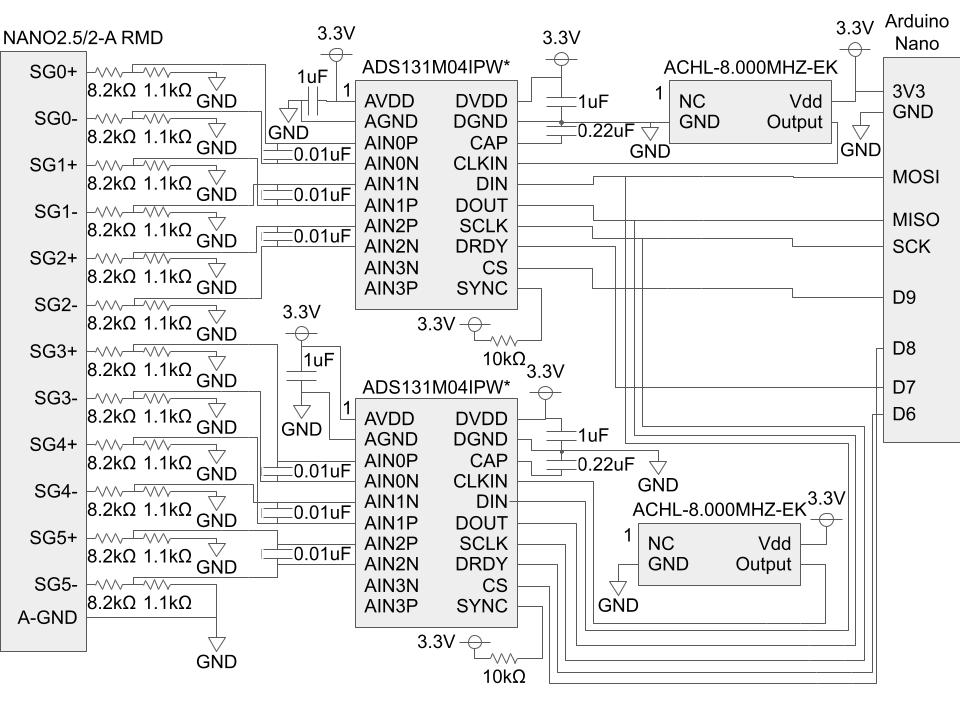
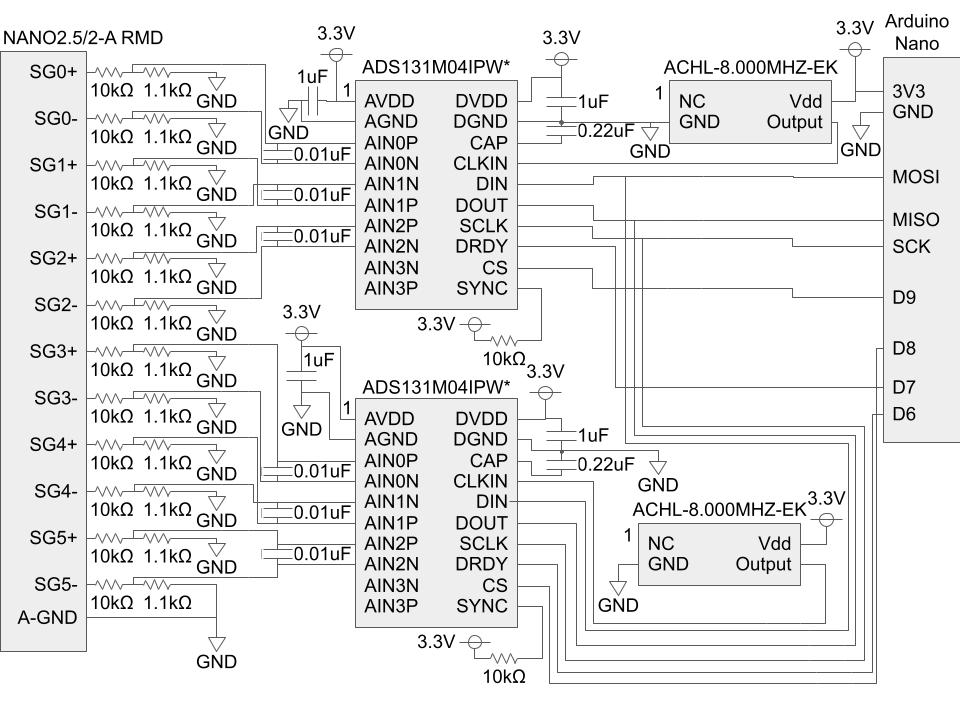
[bl_force_torque_sensor_ros] Change voltage divider ratio to accept full range of sensor output

diff --git a/bl_force_torque_sensor_ros/node_scripts/sensor_driver_rosserial.py b/bl_force_torque_sensor_ros/node_scripts/sensor_driver_rosserial.py
@@ -48,7 +48,7 @@ class SensorDriverRosserial(object):
         self.adc_type = rospy.get_param(
             '~adc_type', 'ADS131M04')
         if self.adc_type == 'ADS131M04':
-            self.voltage_divider = (8.2 + 1.1) / 1.1
+            self.voltage_divider = (10.0 + 1.1) / 1.1
             self.adc_range = 2.4  # From -FSR to +FSR
             self.adc_resolution = 24  # Number of bits
         else:
